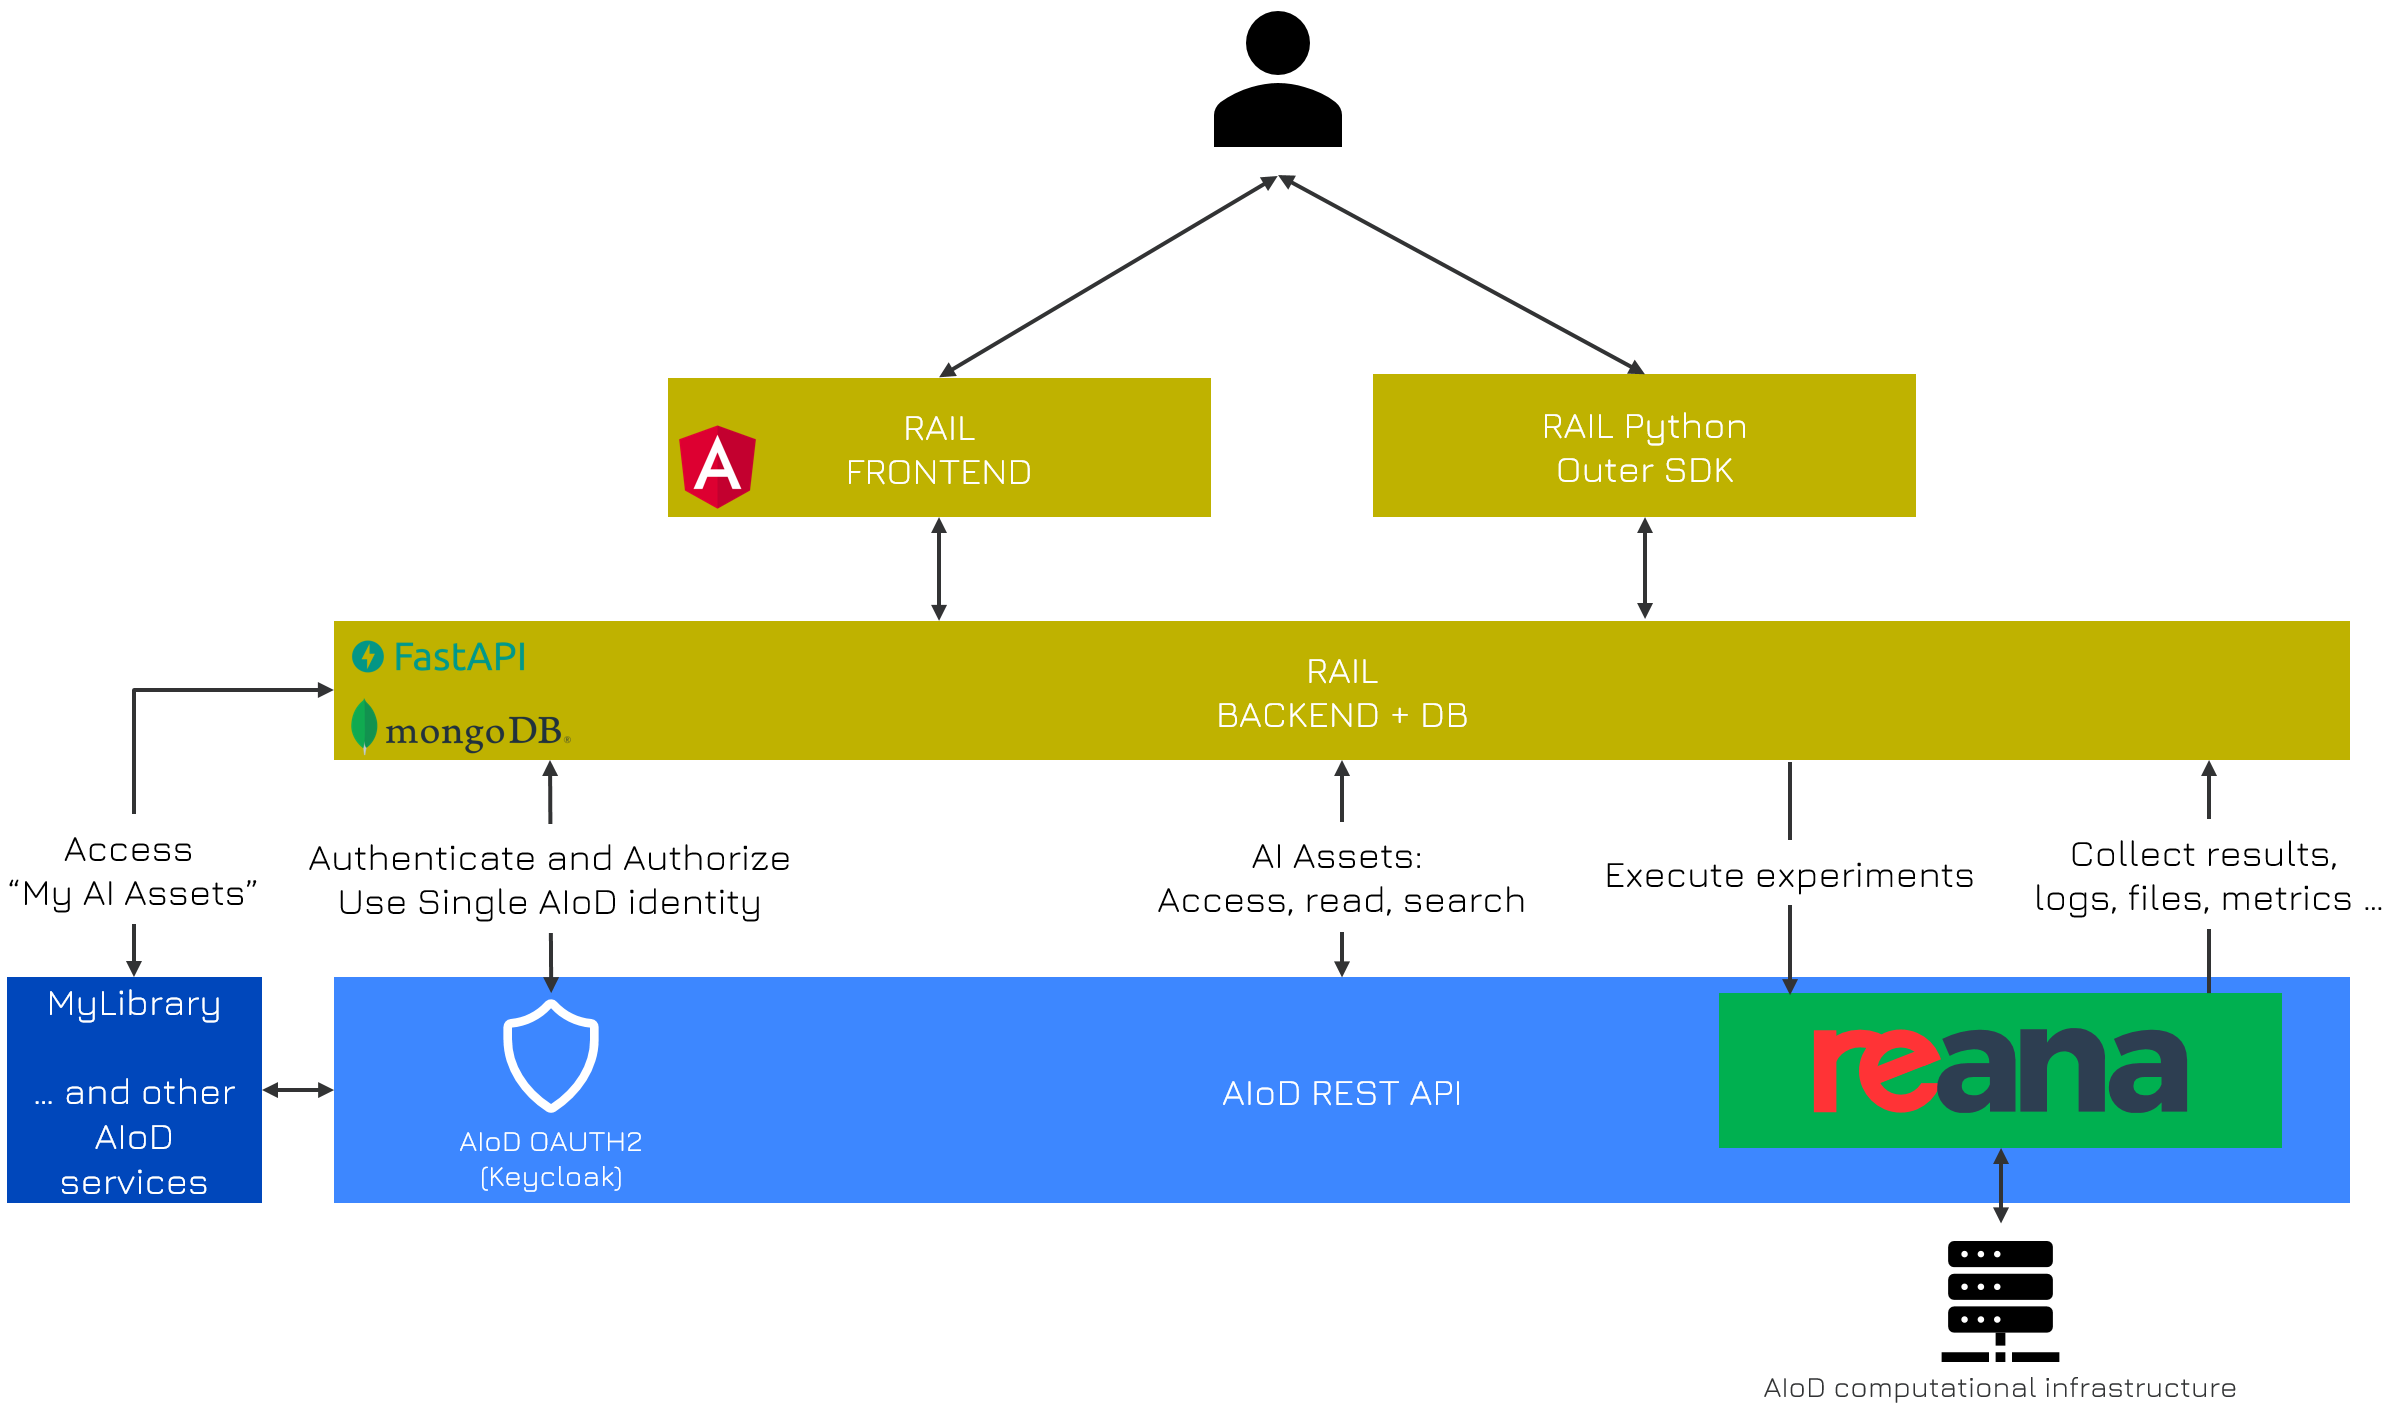
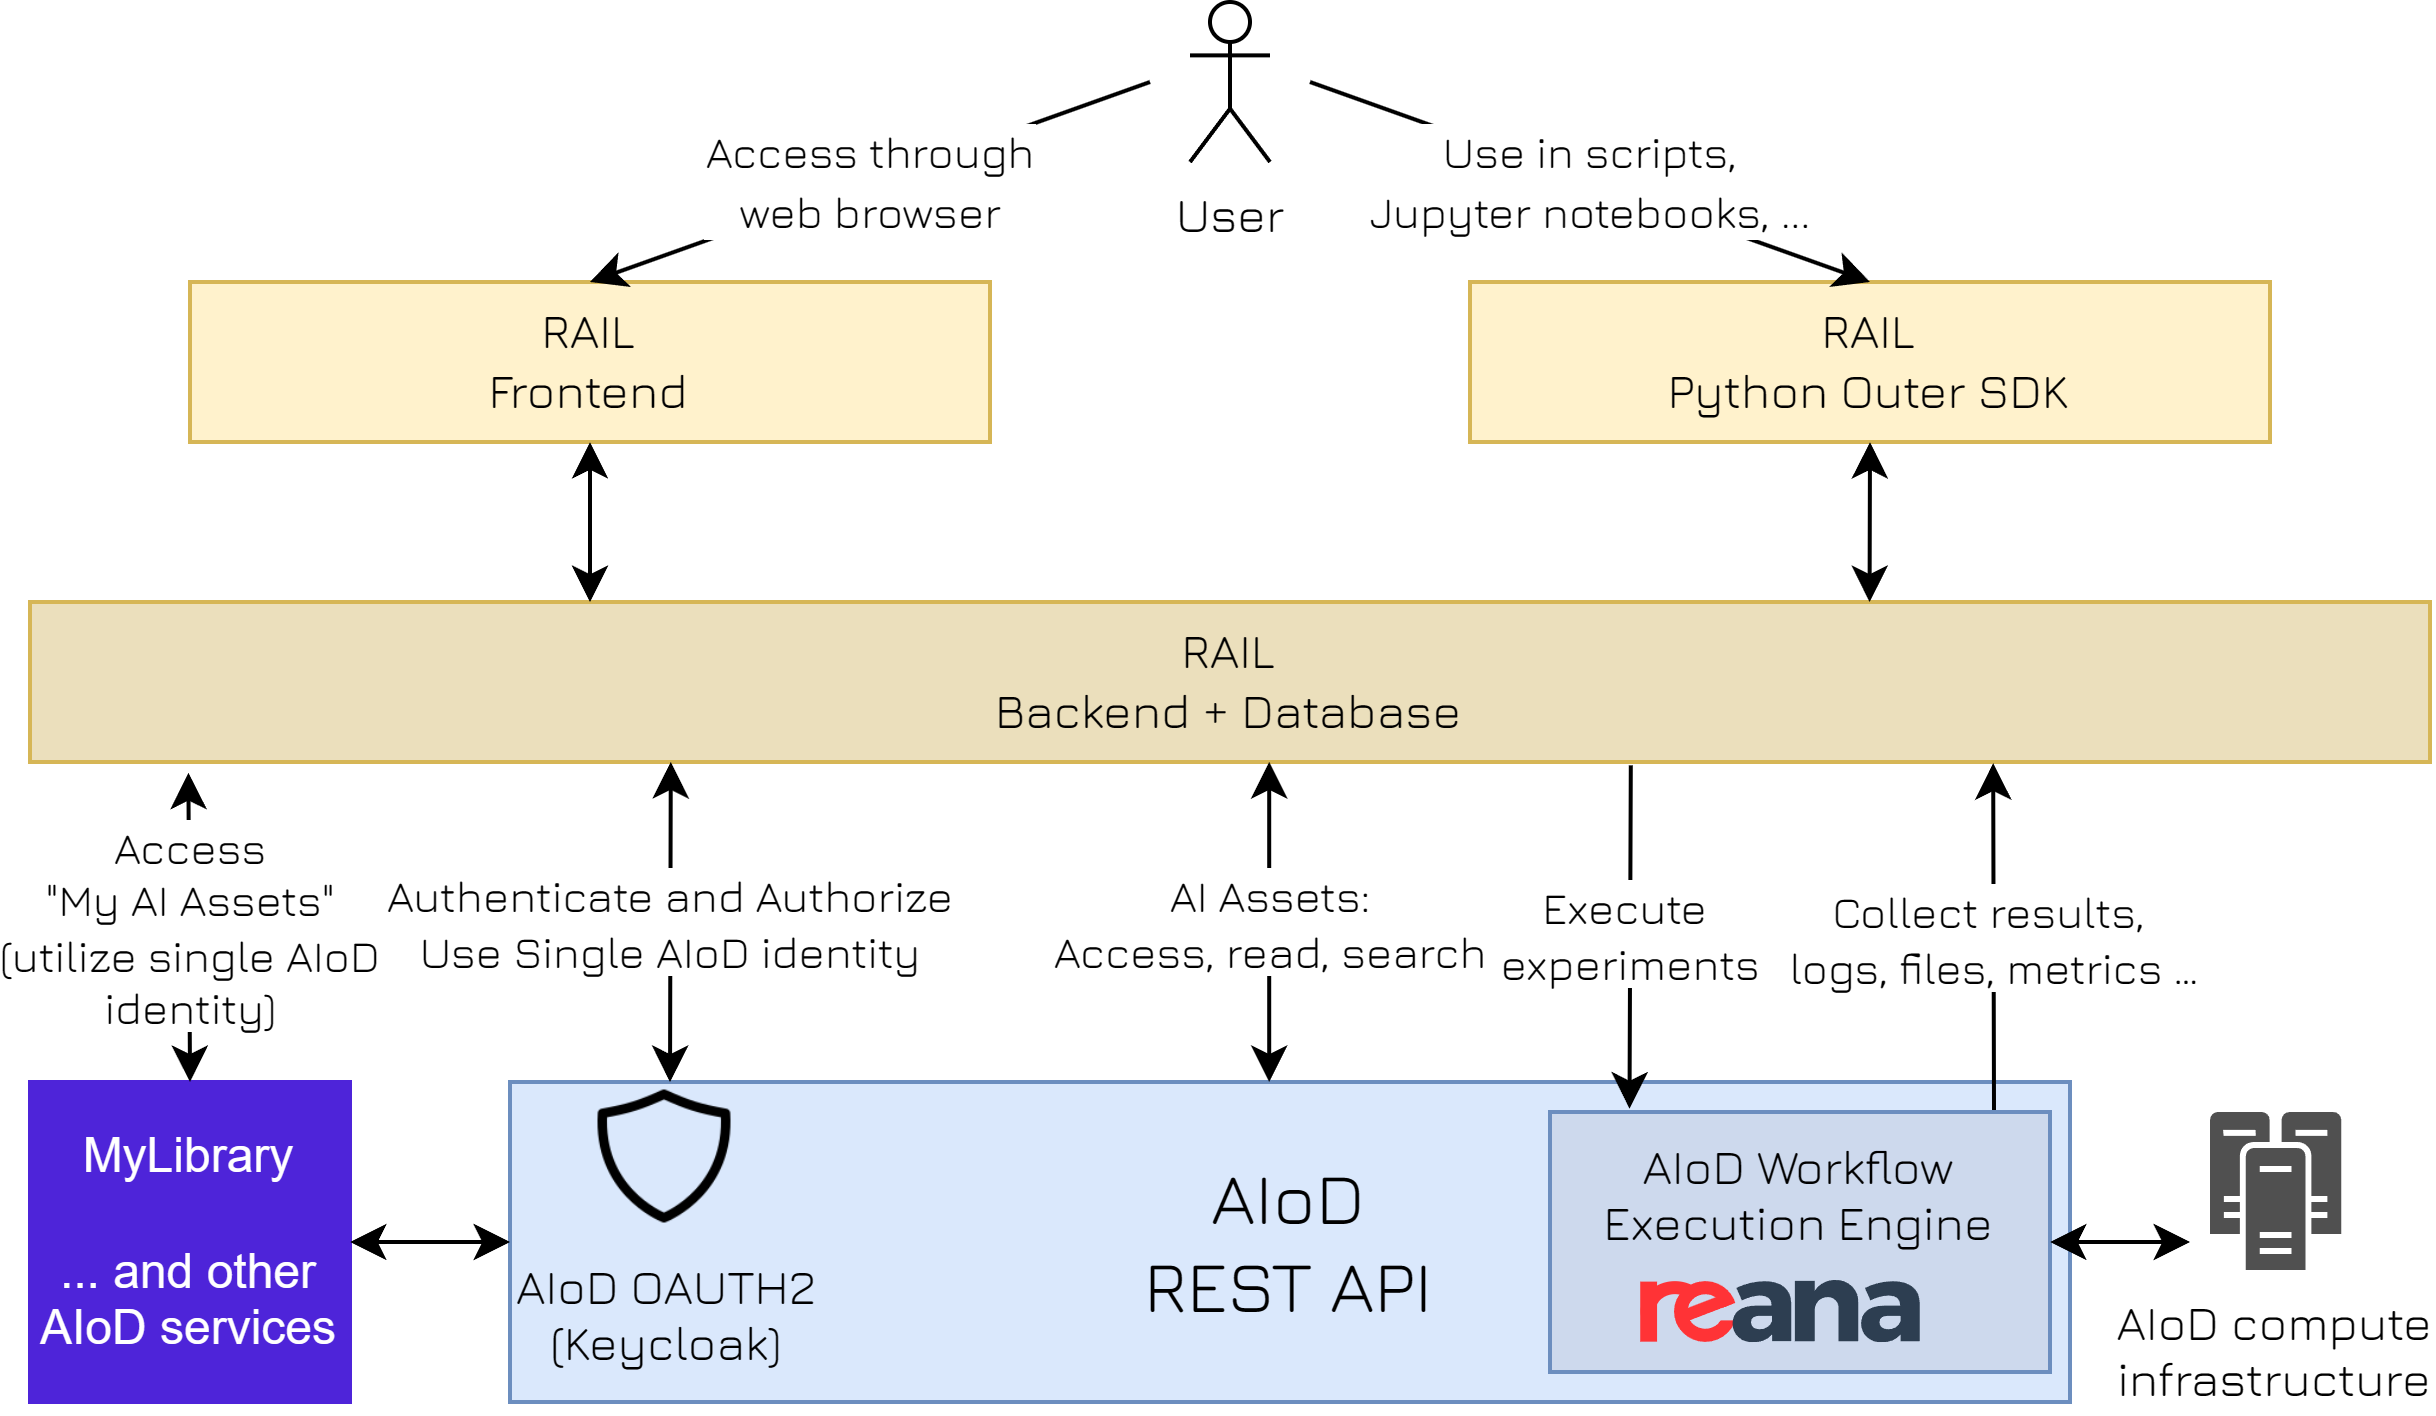
Update overview image and make it clickable

diff --git a/frontend/src/app/components/general/image-with-coord-map/image-with-coord-map.component.ts b/frontend/src/app/components/general/image-with-coord-map/image-with-coord-map.component.ts
@@ -1,0 +1,54 @@
+import { AfterContentChecked, Component, ElementRef } from '@angular/core';
+
+@Component({
+  selector: 'app-image-with-coord-map',
+  templateUrl: './image-with-coord-map.component.html',
+  styleUrls: ['./image-with-coord-map.component.scss']
+})
+export class ImageWithCoordMapComponent implements AfterContentChecked {
+
+  constructor(private thisElement: ElementRef) { }
+
+  ngAfterContentChecked(): void {
+    if (!this.thisElement || !this.thisElement.nativeElement) {
+      return;
+    }
+
+    let image = this.thisElement.nativeElement.querySelector('img') as HTMLImageElement;
+    let map = this.thisElement.nativeElement.querySelector('map') as HTMLMapElement;
+
+    if (!image || !map) {
+      return;
+    }
+
+    let widthRatio = image.width / image.naturalWidth;
+    let heightRatio = image.height / image.naturalHeight;
+
+
+    if (image.width === 0 || image.height === 0 || image.naturalWidth === 0 || image.naturalHeight === 0) {
+      return;
+    }
+
+    // Don't rescale if the image is shown in its original size
+    if (widthRatio === 1 && heightRatio === 1) {
+      return;
+    }
+
+    let areas = map.querySelectorAll('area') as NodeListOf<HTMLAreaElement>;
+    areas.forEach(area => {
+      if (!area.hasAttribute("originalCoords")) {
+        area.setAttribute("originalCoords", area.coords);
+      }
+      
+      let coords = (area.getAttribute("originalCoords") || '').split(',');
+      let newCoords = coords.map(coord => {
+        if (coords.indexOf(coord) % 2 === 0) {
+          return String(Number(coord) * widthRatio);
+        } else {
+          return String(Number(coord) * heightRatio);
+        }
+      });
+      area.coords = newCoords.join(',');
+    });
+  }
+}

diff --git a/frontend/src/app/docs/about/about.component.html b/frontend/src/app/docs/about/about.component.html
@@ -9,8 +9,17 @@
         the core services of the <a href="https://ai4europe.eu" target="_blank">AI on Demand platform.</a>
     </p>
 
-    <img src="assets/docs/images/rail-overview.png" alt="RAIL overview"
-        style="width: 100%; margin: 20px 0;">
+    <app-image-with-coord-map>
+        <img src="assets/docs/images/rail-overview.png" alt="RAIL overview" style="width: 100%; margin: 20px 0;"
+            usemap="#image-map-2">
+
+        <map name="image-map-2">
+            <area target="" alt="" title="" href="/docs/outer-sdk" coords="2276,448,1462,274" shape="rect">
+            <area target="" alt="" title="" href="https://mylibrary.aiod.eu/" coords="359,1414,18,1075" shape="rect">
+            <area target="" alt="" title="" href="https://aiod.eu" coords="503,1076,2074,1410" shape="rect">
+            <area target="" alt="" title="" href="/" coords="180,265,993,446" shape="rect">
+        </map>
+    </app-image-with-coord-map>
 
     <p>More extensively, RAIL:</p>
     <ul>

diff --git a/frontend/src/app/app.module.ts b/frontend/src/app/app.module.ts
@@ -80,6 +80,7 @@ import { RailMainConceptsExperimentComponent } from './docs/rail-main-concepts/r
 import { RailMainConceptsExperimentTemplateComponent } from './docs/rail-main-concepts/rail-main-concepts-experiment-template.component';
 import { RailInnerSdkComponent } from './docs/rail-inner-sdk/rail-inner-sdk.component';
 import { BaseDocComponent } from './docs/base-doc/base-doc.component';
+import { ImageWithCoordMapComponent } from './components/general/image-with-coord-map/image-with-coord-map.component';
 
 
 
@@ -130,6 +131,7 @@ import { BaseDocComponent } from './docs/base-doc/base-doc.component';
     RailMainConceptsExperimentTemplateComponent,
     RailInnerSdkComponent,
     BaseDocComponent,
+    ImageWithCoordMapComponent,
   ],
   imports: [
     BrowserModule,

diff --git a/frontend/src/app/components/general/image-with-coord-map/image-with-coord-map.component.spec.ts b/frontend/src/app/components/general/image-with-coord-map/image-with-coord-map.component.spec.ts
@@ -1,0 +1,21 @@
+import { ComponentFixture, TestBed } from '@angular/core/testing';
+
+import { ImageWithCoordMapComponent } from './image-with-coord-map.component';
+
+describe('ImageWithCoordMapComponent', () => {
+  let component: ImageWithCoordMapComponent;
+  let fixture: ComponentFixture<ImageWithCoordMapComponent>;
+
+  beforeEach(() => {
+    TestBed.configureTestingModule({
+      declarations: [ImageWithCoordMapComponent]
+    });
+    fixture = TestBed.createComponent(ImageWithCoordMapComponent);
+    component = fixture.componentInstance;
+    fixture.detectChanges();
+  });
+
+  it('should create', () => {
+    expect(component).toBeTruthy();
+  });
+});

diff --git a/frontend/src/app/components/general/image-with-coord-map/image-with-coord-map.component.html b/frontend/src/app/components/general/image-with-coord-map/image-with-coord-map.component.html
@@ -1,0 +1,1 @@
+<ng-content></ng-content>
